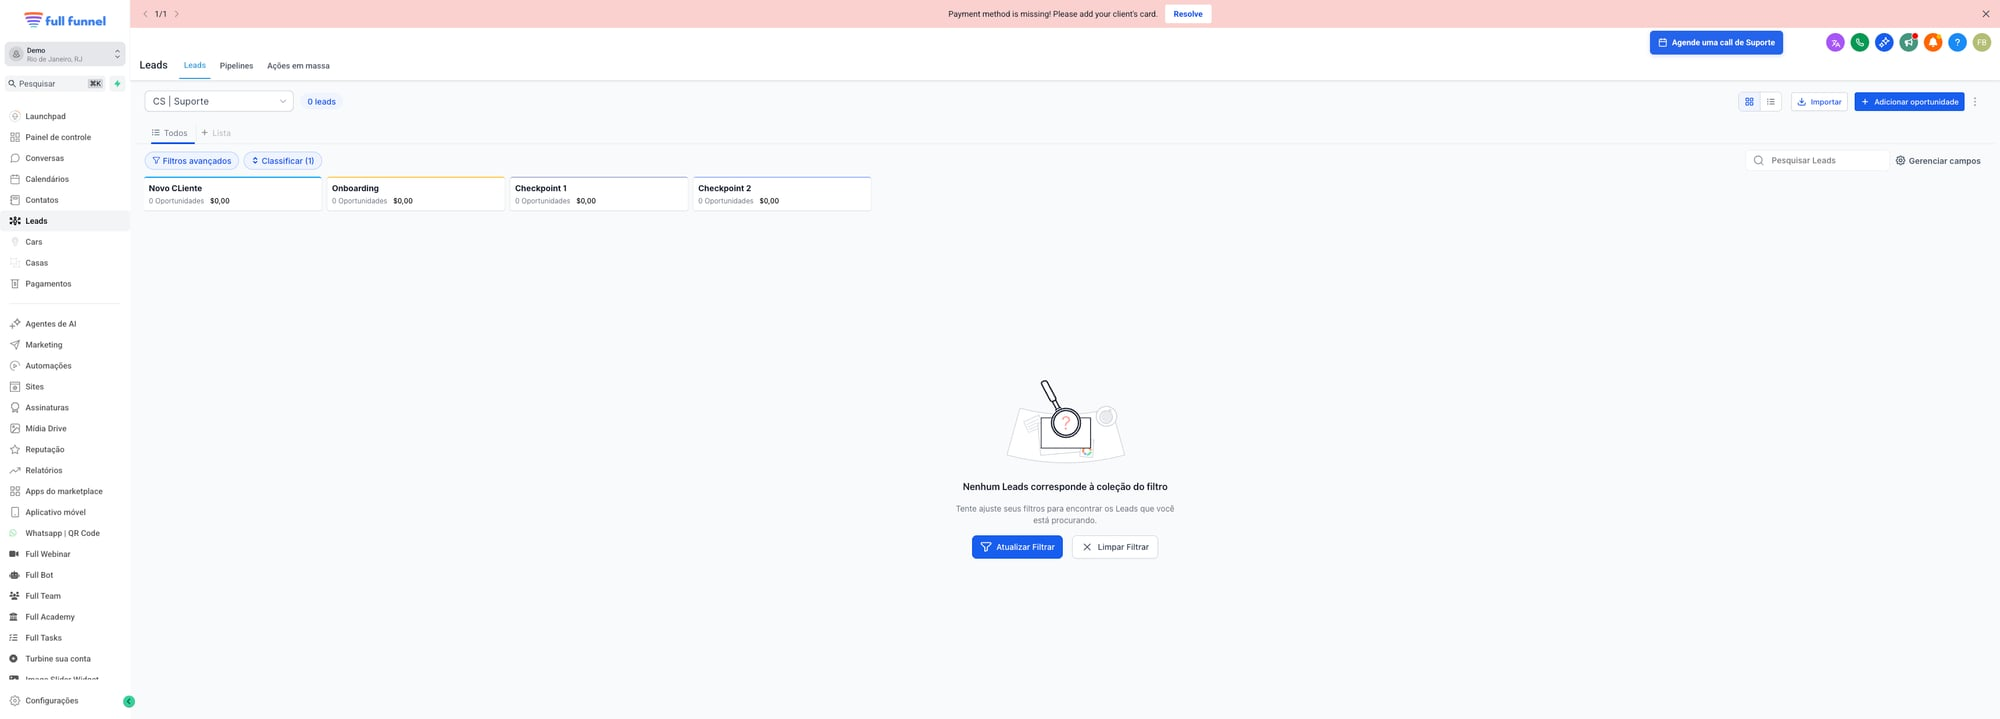
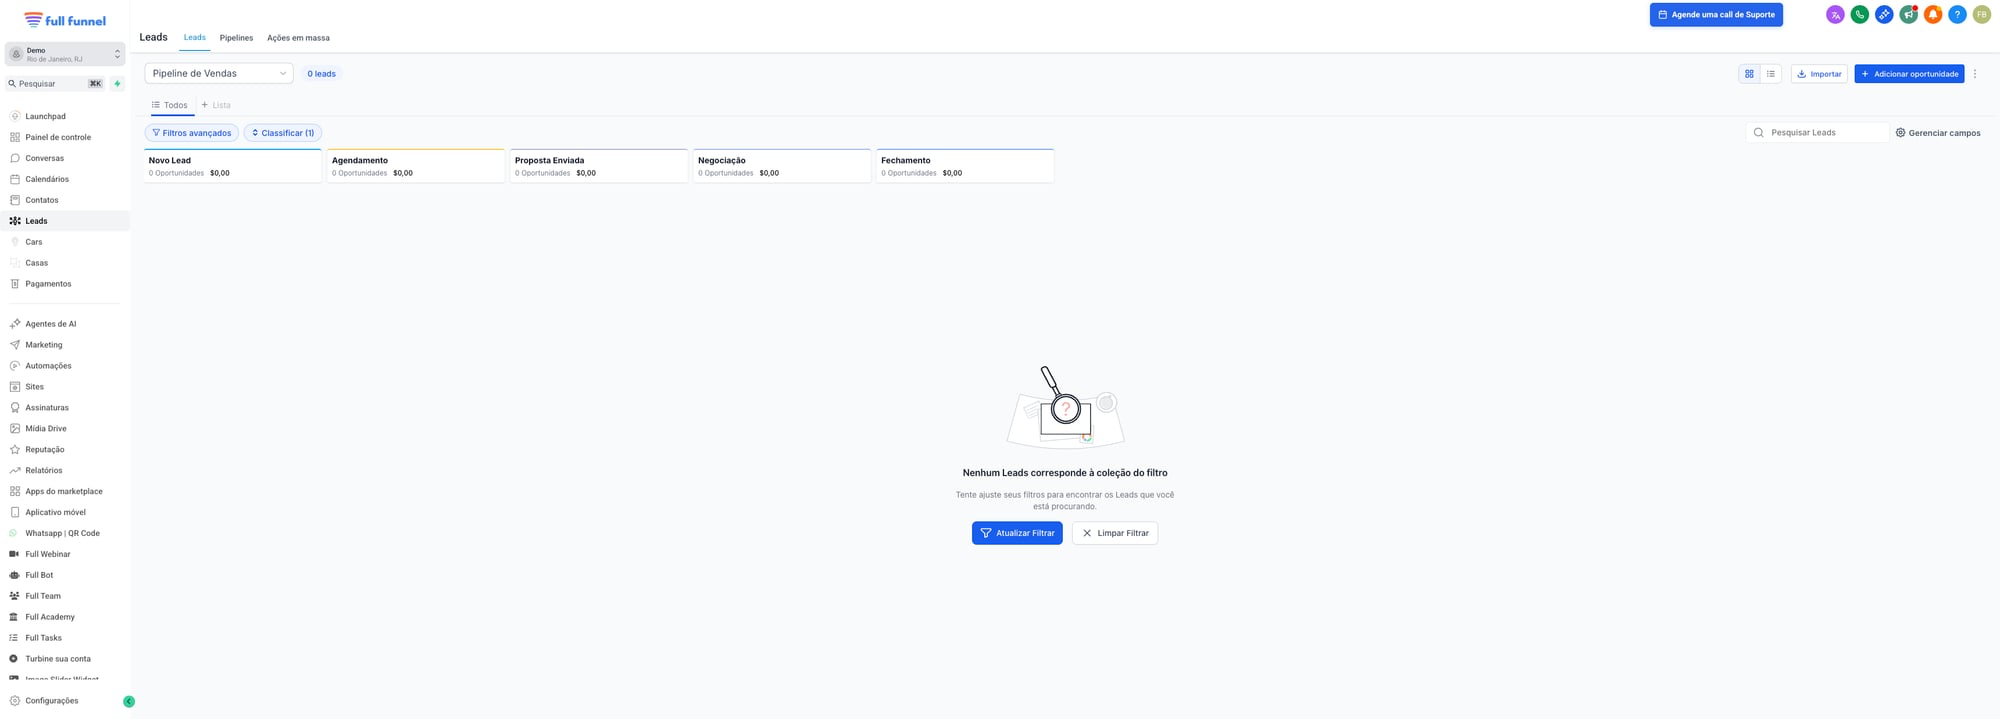
fix: screenshots com proporção correta + sem alertas

diff --git a/tutorials/criando-pipeline/index.html b/tutorials/criando-pipeline/index.html
@@ -233,72 +233,72 @@
 const STEPS = [
   {
     image: "passo-01.png",
-    hotspot: { x: 85, y: 56, w: 13, h: 4 },
+    hotspot: { x: 85, y: 17, w: 13, h: 5 },
     tooltip: { x: 35, y: 35 },
-    line: { x1: 85, y1: 58, x2: 65, y2: 42 },
+    line: { x1: 85, y1: 20, x2: 65, y2: 42 },
     title: "Acesse a subconta desejada",
     text: "Na lista de Subcontas, localize a conta onde deseja criar a pipeline. Clique em 'Alternar para subconta' no canto inferior direito do card.",
     tip: "💡 Você pode usar o campo de busca para encontrar rapidamente a subconta desejada, como fizemos aqui filtrando por 'Demo'."
   },
   {
     image: "passo-02.png",
-    hotspot: { x: 0.5, y: 29, w: 6, h: 3 },
+    hotspot: { x: 0.5, y: 27, w: 6, h: 4 },
     tooltip: { x: 50, y: 40 },
-    line: { x1: 6.5, y1: 30.5, x2: 50, y2: 47 },
+    line: { x1: 6.5, y1: 29, x2: 50, y2: 47 },
     title: "Clique em 'Leads' no menu lateral",
     text: "Após entrar na subconta, você verá o Dashboard. No menu lateral esquerdo, clique em 'Leads'. É nessa seção que ficam as pipelines e oportunidades.",
     tip: "💡 'Leads' é o termo que o GHL usa para oportunidades de venda. Cada lead pode ser movido entre as etapas da sua pipeline."
   },
   {
     image: "passo-03.png",
-    hotspot: { x: 9, y: 7, w: 6, h: 3 },
+    hotspot: { x: 10, y: 2, w: 5, h: 5 },
     tooltip: { x: 50, y: 35 },
-    line: { x1: 15, y1: 8.5, x2: 50, y2: 42 },
+    line: { x1: 15, y1: 5, x2: 50, y2: 42 },
     title: "Acesse a aba 'Pipelines'",
     text: "Na página de Leads, você verá as abas: Leads, Pipelines e Ações em massa. Clique na aba 'Pipelines' para ver e gerenciar todas as suas pipelines.",
     tip: "💡 A aba 'Leads' mostra o kanban da pipeline selecionada. A aba 'Pipelines' lista todas as pipelines criadas na subconta."
   },
   {
     image: "passo-04.png",
-    hotspot: { x: 91, y: 12, w: 8, h: 4 },
+    hotspot: { x: 93, y: 2, w: 7, h: 5 },
     tooltip: { x: 40, y: 35 },
-    line: { x1: 91, y1: 14, x2: 70, y2: 42 },
+    line: { x1: 93, y1: 5, x2: 70, y2: 42 },
     title: "Clique em '+ Criar Pipeline'",
     text: "No canto superior direito da página de Pipelines, clique no botão azul '+ Criar Pipeline'. Um modal será aberto para configurar sua nova pipeline.",
     tip: "💡 Você pode ter quantas pipelines quiser — por exemplo, uma para vendas, outra para suporte ao cliente, outra para recrutamento."
   },
   {
     image: "passo-05.png",
-    hotspot: { x: 41, y: 32, w: 21, h: 5 },
+    hotspot: { x: 41, y: 24, w: 19, h: 5 },
     tooltip: { x: 15, y: 55 },
-    line: { x1: 52, y1: 37, x2: 35, y2: 60 },
+    line: { x1: 52, y1: 29, x2: 35, y2: 60 },
     title: "Preencha o nome da Pipeline",
     text: "No campo 'Nome do Pipeline', digite um nome descritivo. Neste exemplo, usamos 'Pipeline de Vendas'. Abaixo, o GHL já cria 4 etapas padrão que você pode personalizar.",
     tip: "💡 Use nomes claros como 'Pipeline de Vendas', 'Funil Comercial', 'CS | Suporte' — facilita encontrar depois."
   },
   {
     image: "passo-06.png",
-    hotspot: { x: 42, y: 40, w: 22, h: 45 },
-    tooltip: { x: 15, y: 20 },
-    line: { x1: 52, y1: 42, x2: 35, y2: 27 },
+    hotspot: { x: 42, y: 32, w: 20, h: 34 },
+    tooltip: { x: 15, y: 15 },
+    line: { x1: 52, y1: 34, x2: 35, y2: 22 },
     title: "Configure as etapas (stages)",
     text: "Renomeie as etapas para refletir seu processo de vendas. Aqui criamos: Novo Lead → Agendamento → Proposta Enviada → Negociação → Fechamento. Use '+ Adicionar etapa' para criar mais.",
     tip: "💡 As checkboxes 'Gráfico de funil' e 'Etapa de entrega' controlam como cada estágio aparece nos relatórios do dashboard."
   },
   {
     image: "passo-07.png",
-    hotspot: { x: 8, y: 26, w: 84, h: 5 },
-    tooltip: { x: 30, y: 45 },
-    line: { x1: 50, y1: 31, x2: 50, y2: 50 },
+    hotspot: { x: 7, y: 41, w: 91, h: 5 },
+    tooltip: { x: 30, y: 55 },
+    line: { x1: 50, y1: 46, x2: 50, y2: 60 },
     title: "Pipeline criada com sucesso!",
     text: "Após clicar em 'Criar', a pipeline aparece na lista. Note que 'Pipeline de Vendas' está no topo com 5 etapas. Agora vamos visualizá-la no kanban.",
     tip: "💡 Nesta tela você pode editar (ícone de lápis), duplicar ou excluir (ícone de lixeira) qualquer pipeline."
   },
   {
     image: "passo-08.png",
-    hotspot: { x: 7, y: 24, w: 86, h: 10 },
+    hotspot: { x: 7, y: 19, w: 46, h: 6 },
     tooltip: { x: 25, y: 50 },
-    line: { x1: 50, y1: 34, x2: 50, y2: 55 },
+    line: { x1: 30, y1: 25, x2: 45, y2: 55 },
     title: "Sua Pipeline no Kanban! 🎉",
     text: "Volte à aba 'Leads' e selecione 'Pipeline de Vendas' no seletor. Pronto! Seu kanban visual está configurado com as 5 etapas: Novo Lead, Agendamento, Proposta Enviada, Negociação e Fechamento.",
     tip: "💡 Agora você pode adicionar oportunidades clicando em '+ Adicionar oportunidade' e arrastar os cards entre as colunas conforme o lead avança no processo."
